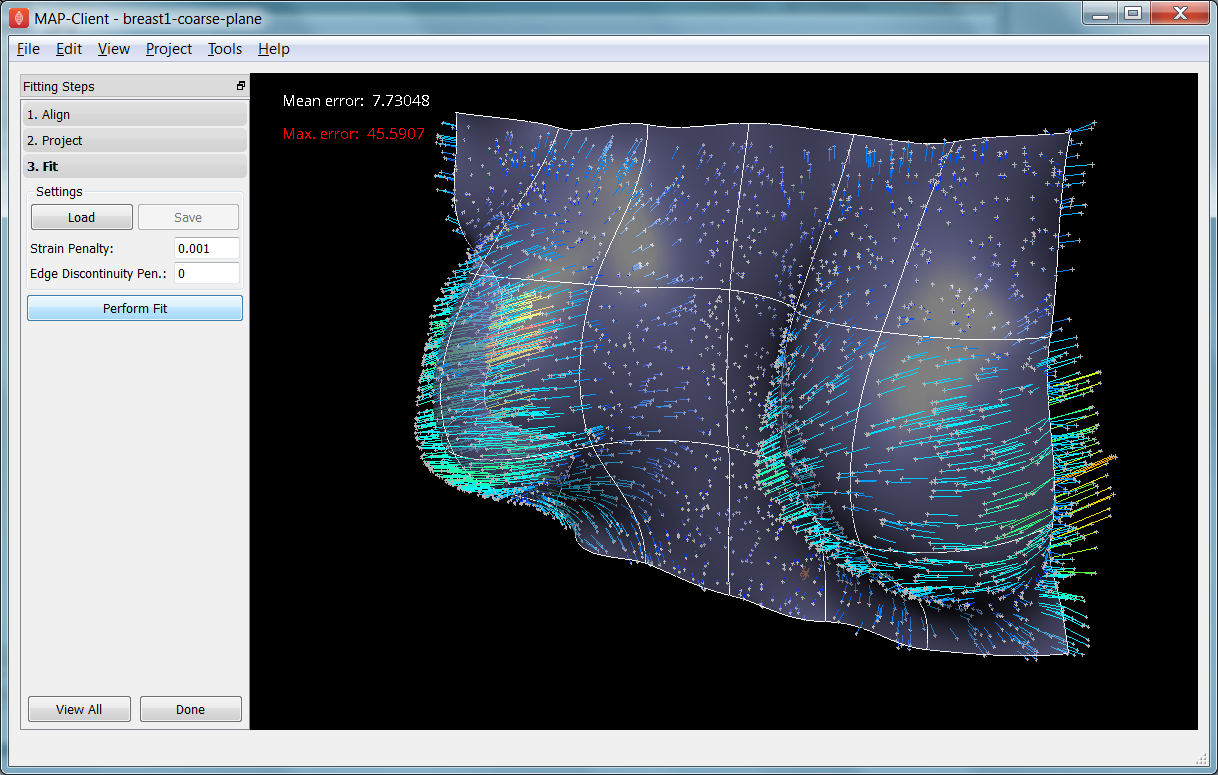
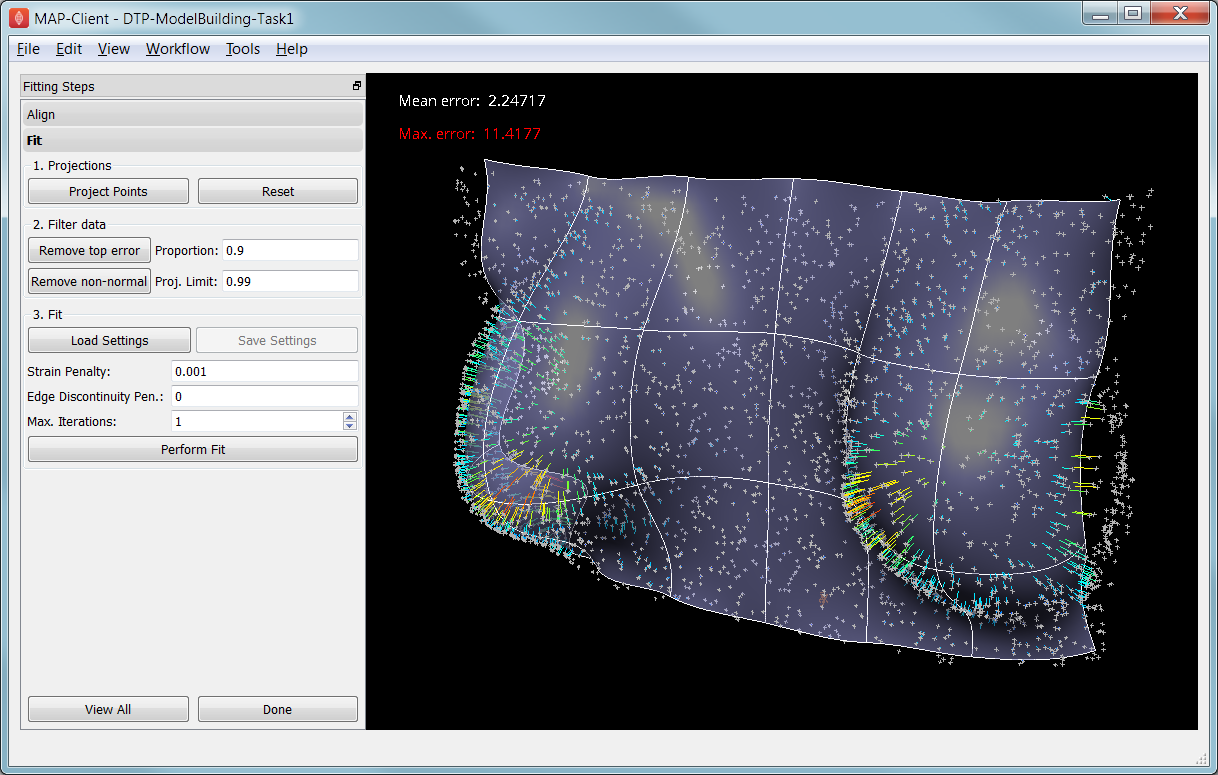
Document new smoothfit version with data filtering

diff --git a/source/modelconstruction.rst b/source/modelconstruction.rst
@@ -9,7 +9,7 @@ Model construction consists of:
 #. *Geometric Fitting*: customising the geometry of the mesh to be physically realistic, or tailored to an individual.
 #. *Material Field Definition*: describing and fitting additional spatially-varying fields which affect behaviour of the body e.g. material properties such as fibre orientations for anisotropic materials. 
 
-This tutorial currently concentrates on geometric fitting, but gives overviews of the other topics. It uses the breast surface as the model for fitting, which is appropriate as customising breast models to individuals is needed to simulate deformation with change in pose, and this in turn is helps co-locate regions of possible cancerous tissue from multiple medical images each made with different imaging devices which necessarily use different body poses.
+This tutorial currently concentrates on geometric fitting, but gives overviews of the other topics. It uses the breast surface as the model for fitting, which is appropriate as customising breast models to individuals is needed to simulate deformation with change in pose, and this in turn helps co-locate regions of possible cancerous tissue from multiple medical images each made with different imaging devices which necessarily use different body poses.
 
 Mesh Creation
 =============
@@ -18,13 +18,13 @@ We are concerned with constructing models consisting of 'finite elements' -- sim
 
 Common methods for creating the finite element mesh include:
 
-#. Automatic mesh generation to boundaries described by segmented edges, point clouds or CAD models. Automated algorithms are usually limited to creating triangle (in 2-D) or tetrahedron (3-D) elements, with linear or quadratic basis functions only.
+#. Automatic mesh generation to boundaries described by segmented edges, point clouds or CAD models. Automated algorithms are usually limited to creating triangle (in 2-D) or tetrahedron (3-D) elements.
 #. Generating part or all the topology from simple, standard shapes such as plates, blocks and tubes, then relying on fitting to the geometry. The models used in the geometric fitting steps below were all generated from a plate topology and the tutorial involves fitting their geometry.
 #. Manually building elements by selecting/creating corner points ('nodes') in the correct order. To ease creating a valid model, tools can assist by locking on to points from a surface or point cloud segmented from real medical images.
 
-Surface model can be automatically extruded to 3-D models (triangles become wedges, squares become cubes). Also, different, higher-order basis functions can be used over the same topology to give more degrees of freedom in the model. This is particularly important for studying the human body as it contains few straight lines. In many models of body parts we employ C\ :sub:`1`\ -continuous cubic Hermite basis (interpolation) functions to model their inherent smoothness, and the following breast fitting examples demonstrate this. There is a downside to using Hermite bases: it is painstaking work to properly connect the mesh in areas where the topology is non-trivial, such as apex points, armpits etc.
+Surface models can be automatically extruded to 3-D models (triangles become wedges, squares become cubes). Also, different, higher-order basis functions can be used over the same topology to give more degrees of freedom in the model. This is particularly important for studying the human body as it contains few straight lines. In many models of body parts we employ C\ :sub:`1`\ -continuous cubic Hermite basis (interpolation) functions to model their inherent smoothness, and the following breast fitting examples demonstrate this. There is a downside to using Hermite bases: very careful adjustments are needed to properly connect the mesh in areas where the topology is non-trivial, such as where rounded bodies are closed (top of head, apex of heart), bifurcations (between fingers, legs), and where mesh density needs to be increased.
 
-Mesh creation is a very involved topic; one needs to consider favourable alignment of elements with expected material behaviour, having sufficient density of elements to describe the problem with sufficient accuracy (the fitting examples below employ 2 different sized meshes to give some indication of the importance of mesh refinement) but overall one wishes to minimise the total number of degrees of freedom to reduce computation time.
+Mesh creation is a very involved topic; one needs to consider favourable alignment of elements with expected material behaviour, having sufficient density of elements to describe the problem with desired accuracy (the fitting examples below employ 2 different sized meshes to give some indication of the importance of mesh refinement). In contrast, one also wishes to minimise the model size (measured by total number of degrees of freedom) to reduce computation time.
 
 Task 0: Visualising Model Construction
 --------------------------------------
@@ -38,30 +38,24 @@ We will jump ahead to look at an example from the visualisation course as it's v
 
    Heart mesh construction stages: a single template element; multiple disconnected elements; elements merged into a connected mesh; mesh geometry gradually warped into the shape of the heart, closing up the sides and apex.
 
-This example opens up a SimpleViz viewer for a model that shows stages in constructing a heart model. At the left of the window is a toolbox; switch to the 'time' page of the tool box and drag the time slider between 0 and 1. Rotate, pan and zoom into the view with the mouse as per the description for Smoothfit Tool, below.
+This example opens up a SimpleViz viewer for a model that shows stages in constructing a heart model. At the left of the window is a toolbox; switch to the 'time' page of the tool box and drag the time slider between 0 and 1. Rotate, pan and zoom into the view with the mouse as per the description for the Smoothfit Tool, below.
 
-In most of the model the initially cube-shaped elements are stretched, compressed or distorted, but they keep their essential cube or hexahedral *topology*. However, at the apex (bottom of the heart) the cubes are collapsed into wedge shapes, which can be done with care.
+In most of the model the initially cube-shaped elements are stretched, compressed or distorted, but they keep their essential cube or hexahedral *topology*. However, at the apex (bottom of the heart) the cubes are collapsed into wedge shapes, which while being permissible is an approach which should be minimised.
 
 Geometric Fitting
 =================
 
-The remainder of this tutorial concentrates on directly fitting generic models to data point clouds obtained from an earlier segmentation or other digitisation step. Other types of fitting not covered include:
+The remainder of this tutorial concentrates on directly fitting simple models to data point clouds obtained from an earlier segmentation or other digitisation step. Other types of fitting not covered include:
 
-* Fitting to modes from a Principal Component Analysis, where the variation in geometry over a population is reduced to combinations of a small number of significant mode shapes and lesser modes are discarded;
-* Host-mesh fitting where the body is embedded in a coarse, smooth 'host' mesh, data is used to morph the host mesh and the embedded 'slave' mesh is moved with it.
+* Fitting to modes from a Principal Component Analysis, where the variation in geometry over a population is reduced to linear combinations of a small number of significant mode shapes (key model poses), and lesser modes are discarded;
+* Host-mesh fitting where the body is embedded in a coarse, smooth *host* mesh, data is used to morph the host mesh and the embedded *slave* mesh is moved with it.
 
 In many cases the above methods are used as a first step to get a close approximation before direct geometric fitting.
 
 Smoothfit Tool
 --------------
 
-Fitting the geometry of a model to a point cloud consists of 3 steps:
-
-#. Model alignment
-#. Data point projection onto the model
-#. Performing the fit
-
-This tutorial uses the 'smoothfit' MAP client plugin for interactive fitting with these 3 steps. The inputs to smoothfit in a workflow are a model file and a point cloud file (each currently limited to EX or FieldML formats that can be read by OpenCMISS-Zinc). The workflow in the MAP client is shown in :numref:`fig_dtp_cp_modcon_fitting_workflow`, and requires only the input files to be specified (and workflow step identifiers to be named):
+This tutorial uses the *Smoothfit* MAP client plugin for interactive fitting. The inputs to Smoothfit in a workflow are a model file and a point cloud file (each currently limited to EX or FieldML formats that can be read by OpenCMISS-Zinc). The workflow in the MAP client is shown in :numref:`fig_dtp_cp_modcon_fitting_workflow`, and requires only the input files to be specified (and workflow step identifiers to be named):
 
 .. _fig_dtp_cp_modcon_fitting_workflow:
 
@@ -72,16 +66,16 @@ This tutorial uses the 'smoothfit' MAP client plugin for interactive fitting wit
 
    Geometric fitting workflow in the MAP client framework.
 
-When the workflow is executed, the smoothfit interface is displayed showing the model as a semi-transparent surface and the point cloud as a cloud of small crosses. The initial view is of the '1. Align' step, shown in :numref:`fig_dtp_cp_modcon_fitting_align`.
+When the workflow is executed, the smoothfit interface is displayed showing the model as a semi-transparent surface and the point cloud as a cloud of small crosses. The initial view in :numref:`fig_dtp_cp_modcon_fitting_align` shows the interface in its pre-fitting *Align* state.
 
 .. _fig_dtp_cp_modcon_fitting_align:
 
 .. figure:: _static/fitting-align.png
    :align: center
 
-   Fitting step 1: Model alignment.
+   Interface for aligning the model with the data point cloud.
 
-In any of the views you may rotate, pan and zoom the view using the standard controls in the following table, click 'View All' to recentre the view and click 'Done' to close the workflow step:
+In any of the views you may rotate, pan and zoom the view using the standard controls in the following table, click *View All* to recentre the view and click *Done* to close the workflow step (and save the output model for subsequent workflow steps):
 
 ======================= ==============
 Mouse Button            Transformation
@@ -95,59 +89,112 @@ Right or Ctrl+Left(Mac) Fly Zoom
 Shift+Right             Camera Zoom
 ======================= ==============
 
-The first step in fitting is to scale the model and bring it into alignment with the point cloud; this is done so that the projections are as close and consistent as possible, as described below. To align and scale the model in this step, hold down the 'A' key as you left, middle and right mouse button drag in the window (or variant as in the above table): this moves the model relative to the data cloud. Be aware that rotation is a little difficult and may take practice. Other controls include alignment reset, auto centre and the Load button which will load a saved alignment. (The Save button can be disabled in the smoothfit configuration so tutorialsters don't accidentally wipe the good one that is saved for progressing to the next step!)
+In the Smoothfit user interface you can hover the mouse pointer over most controls to get help -- tool tips -- which explain what they do. 
 
-Often the shape of the model and point cloud make it pretty clear where to align to. Note that this tool uses manual alignment, but other tools may make it automatic (based on shape analysis) or semi-automatic (e.g. by identifying 3 or more points on the data cloud as being key points on the model, and automatically transforming to align with them).
+**Pre-fit: model alignment**
 
-The second step in fitting is to project the data points onto the nearest location on the aligned mesh. Switch to the '2. Project' page of the tool bar, then click on the 'Project Points' button to get the view in :numref:`fig_dtp_cp_modcon_fitting_project`. When projections have been calculated, the view changes to show error bars between the data points and their projections, coloured by magnitude, plus the on-screen display of mean and maximum error.
+The first step in fitting is to scale the model and bring it into alignment with the data point cloud prior to projecting data points and fitting. The need to align the model well is explained later with the projection step. To perform alignment you must be on the Align page in the tool bar, switched to by clicking on the *Align* label.
+
+To align and scale the model, hold down the 'A' key as you left, middle and right mouse button drag in the window (or variant as in the above table): this moves the model relative to the data cloud. Be aware that rotation is a little difficult and may take practice. Other controls include alignment reset, auto centre (in case the model is very far from the data points; may need to click *View All* afterwards) and the Load button which will load a saved alignment. (Note that the Save button is disabled in the smoothfit configuration for these tutorials so a pre-saved good alignment is always available for loading.)
+
+Often the shape of the model and point cloud make it pretty clear where to align to. Smoothfit uses manual alignment, but other tools may make it automatic (based on shape analysis) or semi-automatic (e.g. by identifying 3 or more points on the data cloud as being key points on the model, and automatically transforming to align with them).
+
+**Fit stage 1: projecting points**
+
+Once the model and data points are aligned, switch to the fitting page in the tool bar by clicking on the *Fit* label. These controls show that fitting has three stages: projecting points onto the mesh, filtering bad data, and performing the fit with some user parameters.
+
+Fitting is usually a non-linear task: after initial fits, possibly with multiple iterations, you may need to go back and re-project data points, filter data and re-fit, possibly with different parameters. The trial-and-error nature of fitting, together with the need for judgement on whether a good fit is achieved,  make it less a science and more of a dark art!
+
+The first step in fitting is to project the data points onto the nearest locations on the elements of the aligned model, by clicking on the *Project Points* button. In the window you will see projection lines from the data points to the nearest point on the model as shown in :numref:`fig_dtp_cp_modcon_fitting_project`. These projection lines, interpreted as fitting errors, are coloured by length (blue closest, red furthest away), and there is an on-screen display of the current mean and maximum projection error.
 
 .. _fig_dtp_cp_modcon_fitting_project:
 
 .. figure:: _static/fitting-project.png
    :align: center
 
-   Fitting step 2: Projecting data points onto the model.
+   Data points projected onto the initial model.
 
-The key point is that the projections are what the fitting aims to minimise, and if they don't agree on where a point on the mesh should move to, the fit will have problems. It's good if the projection lines are short and/or near parallel, and it's bad if they cross over each other. Often you will see some projections that are very long and probably erroneous; in fitting applications these may be eliminated or weighted lower to have less effect on the solution, but this is not offered in smoothfit yet.
+The key point is that the projections are what the fitting aims to minimise, and if they don't agree on where a point on the mesh should move to, the fit will have problems. It's good if the projection lines are short and/or near parallel, and it's bad if they cross over each other. Two things that help produce good projections are:
 
-Switch to the next step '3. Fit' to configure and perform the fit. This is where fitting becomes less a science and more a dark art. The normal fit adjusts the coordinates to minimise the error bars; clicking the 'Perform Fit' button performs a single iteration and it may take multiple iterations to get close to the data. :numref:`fig_dtp_cp_modcon_fitting_fit` shows what the view looks like after a couple of iterations of fitting.
+1. Good initial alignment of the model. Surfaces should ideally be close to the data points, or at least in a position to produce near-parallel projections.
+2. The model should be smoothly curved, i.e. without excessive surface waviness. To help this we use fitting parameters which produce smoother results for initial gross fitting, which we intend to re-project onto for subsequent fine fitting.
+
+In the worst cases, projecting distant data points onto a very wavy model, will produce data which is unusable for fitting.
+
+Note that clicking on the *Reset* button clears all current projections, and restores all points that have been filtered out for subsequent projection.
+
+**Fit stage 2: filtering data**
+
+We often find that some of the data points are not providing useful data for the fit, and we will want to filter these out. The *Filter data* controls shown in  :numref:`fig_dtp_cp_modcon_fitting_project` allow us to remove data points according to two algorithms.
+
+The first simply removes the data points whose projections are in the specified top proportion of the maximum error, 0.9 (90%) by default. This is mainly used where the data cloud is *noisy* or contains some rogue data points which are best taken out of the solution.
+
+The second filtering tool removes data points whose projections are not normal to the surface. This is only suitable for use with smooth C\ :sub:`1`\ -continuous coordinates (e.g. the Hermite basis meshes used for most of this tutorial) where the surface normal does not suddenly change on element boundaries in the mesh. **Note:** *It is important that you use this only after re-projecting data points since after performing the fit the data point projections will no longer be normal to the surface!* 
+
+When fitting a surface model to only a subset of the data points, you will need to use the non-normal filter (and sometimes the top error filter) to eliminate the data points clearly outside of the surface to be fit.
+
+Filtering the data points removes those points from the active set of data points, which gets smaller each time but may be reset to all data points using the *Reset* button.
+
+**Fit stage 3: performing the fit**
+
+With data points projected, and bad data filtered out you are ready to fit by clicking on the *Perform Fit* button, however we will usually need to play around with parameters controlling the fit to achieve a good result. :numref:`fig_dtp_cp_modcon_fitting_fit` shows what the view looks like after 2 iterations of fitting with a moderate strain penalty to keep the solution smooth.
 
 .. _fig_dtp_cp_modcon_fitting_fit:
 
 .. figure:: _static/fitting-fit.png
    :align: center
 
-   Fitting step 3: Perform the fit
+   Display after gross fitting the breast model.
 
-Note that the projections are not recalculated during the fitting, but you can switch back to step 2, reproject and then fit again. Switching back to the Align step clears the fitted solution.
+Fitting may be non-linear so multiple iterations may be needed to converge on a solution. Through the interface one can either re-click on *Perform Fit* or increase the maximum number of iterations before fitting; note fitting stops either when the solution has converged or the maximum iterations is reached. If the intention is to re-project points later, it is purely up to the user how many iterations to perform before doing this; for typical problems where one wishes to *gross fit* first, it's best to ensure enough iterations have been performed to get the solution close enough for re-projection.
 
-The penalty values allow you to smooth the fit by penalising particular deformations. The strain penalty limits excessive strain in the model so in the absense of data (or in the presence of noisy data) the solution errs towards one with minimal deformation from the initial aligned state. The edge discontinuity penalty is only useful for non-C\ :sub:`1`\ -continuous coordinate fields such as the linear dome example later. Penalties always increase the data point projection error (in a least squares sense, which is the solution method used in the fitting), but generally give a much more attractive result. Penalty values should be adjusted in orders of magnitude until a likeable result is obtained, then fine-tuned. It is often better to use stiffer (higher penalty) values for initial iterations to prevent waviness from developing in the mesh, then dropping for a final iteration. As for the align step, you can load and save (latter if enabled) the fitting options.
+Beware that projections are not recalculated during the fitting: you must manually click on *Project Points* to do this, and you will probably want to filter some more points before re-fitting.
 
-Note that smoothfit does not yet offer a curvature penalty which is one of the most powerful tools for dealing with noisy or sparse data. Using the strain penalty is the next best thing but isn't as good at dealing with excessive waviness in the solution, particularly since higher values capable of helping the waviness may considerably reduce the accuracy of the fit. This shortcoming will hopefully be rectified soon.
+Switching back to the *Align* page clears the fitted solution altogether.
 
-The following tutorial tasks each have a workflow associated with them which should be run in the usual way. 
+The penalty values allow you to smooth the fit by penalising particular deformations. The strain penalty limits excessive strain in the model so where there is absent or noisy data, solutions which minimise the deformation from the initial aligned state are favoured. The edge discontinuity penalty is only useful for non-C\ :sub:`1`\ -continuous coordinate fields such as the final linear mesh example. Penalties always increase the data point projection error (in a least squares sense, which is the solution method used in the fitting), but generally give a much more attractive result. Penalty values should be adjusted in orders of magnitude until a likeable result is obtained, then fine-tuned. It is often better to use stiffer (higher penalty) values for initial iterations (gross fitting) to prevent waviness from developing in the mesh, then re-projecting and reducing penalties for a final iteration (fine fitting). As for the alignment settings, you can load and save (if enabled) the fitting options.
+
+Note that Smoothfit does not yet offer a curvature penalty which is one of the most powerful tools for dealing with noisy or sparse data. Using the strain penalty is the next best thing but isn't as good at dealing with excessive waviness in the solution, particularly since higher values capable of helping the waviness may considerably reduce the accuracy of the fit. This shortcoming will hopefully be rectified in a later version.
+
+Performing the fit can take a few seconds, and Smoothfit will appear to hang when fitting is in progress. Processing time is longer with more elements, more complex elements, more data points and when applying penalty terms.
+
+The following tutorial tasks each have a workflow associated with them which should be run in the usual way.
 
 Task 1: Coarse plate model fitted to breast data
 ------------------------------------------------
 
-Open the *DTP-ModelBuilding-Task1* workflow and execute it. The breast data was obtained in 'prone' pose (hanging down) as done in MRI scans; this is also the simplest pose to digitise and fit to. Try manually aligning the surface with the breast data by Ctrl-clicking the left, middle or right mouse button and dragging to rotate, pan or scale the model. Project points and attempt to fit without any smoothing parameters. It takes several seconds to perform the fit: be patient! Try multiple fit iterations until the solution is stable. Re-project and try again.
+Open the *DTP-ModelBuilding-Task1* workflow and execute it. The breast data was obtained in 'prone' pose (hanging down) as done in MRI scans; this is also the simplest pose to digitise and fit to. Try manually aligning the surface with the breast data using the mouse controls described earlier (hold down 'A' key and the left, middle or right mouse button and drag to rotate, pan or scale the model). Project points and attempt to fit without any smoothing parameters. It takes several seconds to perform the fit: be patient! Try multiple fit iterations until the solution is stable. Re-project and try again.
 
 The result without smoothing even for this example with a coarse mesh and a relatively large number of high quality data points is quite wavy, particularly around the edges. It also has some unusual depressions about the front of the breasts which is not really representative of the data cloud in general.
 
-For a second exercise we'll use a set sequence to obtain a good fit. Switch to the Align page to reset the fit, click on 'Load' to load a good alignment, project points, switch to the Fit page and click 'Load' to load a strain penalty of 0.001. Perform the fit 2 times which gets fairly close to the data points. Next switch to the Project page and reproject points. On the fit page, lower the strain penalty to 0.0001 and fit once more. The error bars almost disappear over most of both breasts (but can't over the edges where the outlying points are - ignore these). **Write down the mean error for comparison later.** Have a look at the tips of the breast to see where the fit has not been great - this is where the limited number of elements may make the model unable to fit the data (but it is also not helped by the 'pull' of the outlier points).
+For a second exercise we'll use a set sequence to obtain a good fit:
 
-Next go back to the Align page to reset the fit, then re-project points. Try a much higher strain penalty (e.g. 0.01) and see how it limits the possible deformation (after several iterations) - this is what is considered a 'stiff' model.
+1. Switch to the Align page to reset the fit, click on 'Load' to load a good alignment. 
 
-Try fitting with poor initial alignment to see what happens.
+2. Switch to the Fit page, project points and click on 'Remove non-normal'.
+
+3. Click 'Load' to load a moderate strain penalty of 0.001 and perform the fit 2 times to get fairly close to the data points.
+
+4. Re-project the data points and click on 'Remove non-normal'. (This is the state shown in :numref:`fig_dtp_cp_modcon_fitting_fit`.)
+
+5. Lower the strain penalty to 0.0001 and fit once more. The error bars almost disappear over most of both breasts.
+
+6. Write down the mean and maximum error for comparison later.
+
+While the fit appears to be reasonable over most of the breast area, zoom in close on the tips of the breasts and you will see that the fit is not quite so good there. This is due to the mesh having too few elements to fit the data. The next task uses a slightly denser mesh which can achieve a closer fit, however you will need to wait longer for it to solve.
+
+As an extra exercise switch to the Align page to reset the fit, re-project points and fit with a much higher strain penalty (e.g. 0.01) to see how it limits the possible deformation (after several iterations): this is what is considered a 'stiff' model.
+
+Also try fitting with very poor initial alignment to see what happens.
 
 Task 2: Fine plate model fitted to breast data
 ----------------------------------------------
 
-Open the *DTP-ModelBuilding-Task2* workflow and execute it. It has the same data point cloud as the first task, but has a mesh with more than twice as many elements and approx. twice as many parameters, so it is more able to attain a close fit with the data, but takes longer to solve.
+Open the *DTP-ModelBuilding-Task2* workflow and execute it. It has the same data point cloud as the first task, but has a mesh with more than twice as many elements and approximately twice as many parameters, so it is more able to attain a close fit with the data, but takes longer to solve.
 
 Try some of the exercises from Task 1 with this model. With more elements the model is more susceptible to wavy solutions so applying appropriate smoothing penalties is more critical. 
 
-When performing the second exercise from Task 1, iterate 3 times with the initial strain penalty of 0.001, then re-project points and fit with a strain penalty of 0.0001. Note down the mean error which should be about 2/3 of the value from Task 1. More importantly, zoom in on the tips of the breasts to see that the fit is much better there. (Remember the actual mean error is swayed by the outlier points around the edge of the model.)
+When performing the second exercise from Task 1, iterate 3 times with the initial strain penalty of 0.001, then re-project points and fit with a strain penalty of 0.0001. Note down the mean and and error: the mean should be under half of the value from Task 1. More importantly, zoom in on the tips of the breasts to see that the fit is much better there.
 
 Task 3: Coarse breast model fitted to breast data
 -------------------------------------------------
@@ -176,17 +223,17 @@ Task 6: Bilinear model fitted to point cloud
 
 Open the *DTP-ModelBuilding-Task6* workflow and execute it. This example has a bilinear mesh and needs no alignment with the data point cloud.
 
-Project points and fit with all smoothing penalties set to zero. Rotate the result to see that it has developed a 'ridge' along one side, and the under-constrained corner elements distort unacceptably. Reset the fit, reproject and fit with the 'edge discontinuity penalty' set to 1. The result is much smoother. This penalty discourages solutions with differences in surface normals across edges of the mesh. Since the mesh uses bilinear interpolation, exact satisfaction of this condition cannot be met, nevertheless it minimises it as much as possible, and in particular it evens out this discontinuity since it is minimised in a 'least squares' sense.
+Project points and fit with all smoothing penalties set to zero. Rotate the result to see that it has developed a 'ridge' along one side, and the under-constrained corner elements distort unacceptably. Reset the fit (switch to Align and back to Fit pages), reproject and fit with the 'edge discontinuity penalty' set to 1. The result is much smoother. This penalty discourages solutions with differences in surface normals across edges of the mesh. Since the mesh uses bilinear interpolation, exact satisfaction of this condition cannot be met, nevertheless it minimises it as much as possible, and in particular it evens out this discontinuity since it is minimised in a 'least squares' sense.
 
-Experiment with different (much lower, much higher) edge discontinuity penalties to see how the fit is affected. Try combining with strain penalty values.
+Experiment with a much higher edge discontinuity penalty (e.g. 10 or even 100) and lower (e.g. 0.1) to see how the fit is affected. Try combining with strain penalty values.
 
 Material Field Fitting
 ======================
 
 In addition to geometry, bioengineering models often need to include spatially varying data describing the alignment of tissue microstructures, concentrations of cell types, or other differences in material properties. In heart and skeletal muscle, fibre orientations must be described over the body to orient their anisotropic material properties. Similarly, Langer's lines affect properties of the skin, and collagen orientations within other tissue can affect material behaviour.
 
-Each of these properties can be described by spacially-varying fields which interpolate the property of interest over the same elements the coordinates are defined on.
+Each of these properties can be described by spatially-varying fields which interpolate the property of interest over the same elements the coordinates are defined on.
 
-This topic is not covered further in this example, but the concepts of creating and fitting such fields are similar to geometry: one must define the interpolation of the values over the mesh, and fit the field to data obtained from imaging or other techniques. The difference lies mainly in that the data is not coordinates, but orientations when fitting fibres, known concentrations at points when fitting points etc.
+This topic is not covered further in this example, but the concepts of creating and fitting such fields are similar to geometry: one must define the interpolation of the values over the mesh, and fit the field to data obtained from imaging or other techniques. The difference lies mainly in that the data is not coordinates, but orientations when fitting fibres, known concentrations at points for input to cell models etc.
 
 A similar process is often used to obtain solution fields from results. Often the solution technique produces outputs with high accuracy only at certain points in the model. With the Finite Element Method, for example, stress is of highest accuracy at the Gauss points, and fitting can be used to give a better idea of these solution field values away from Gauss points.
